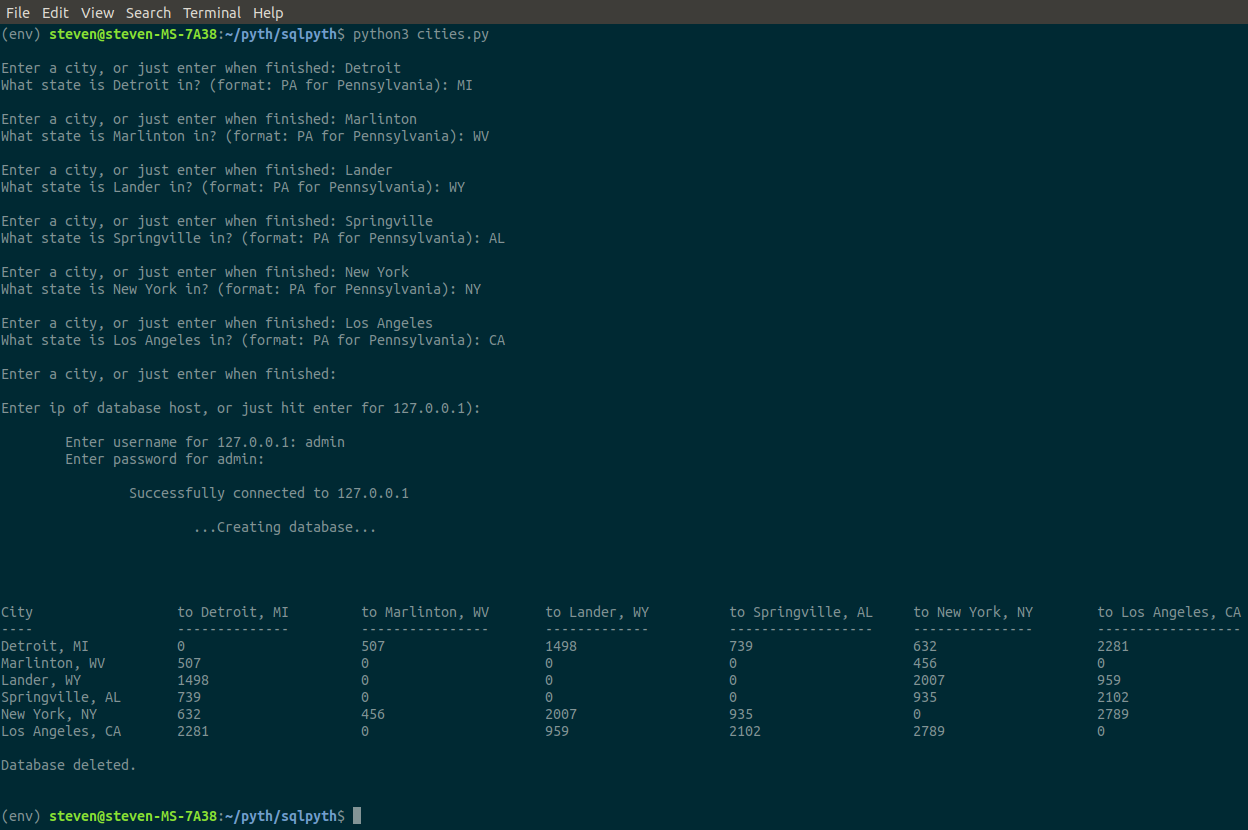
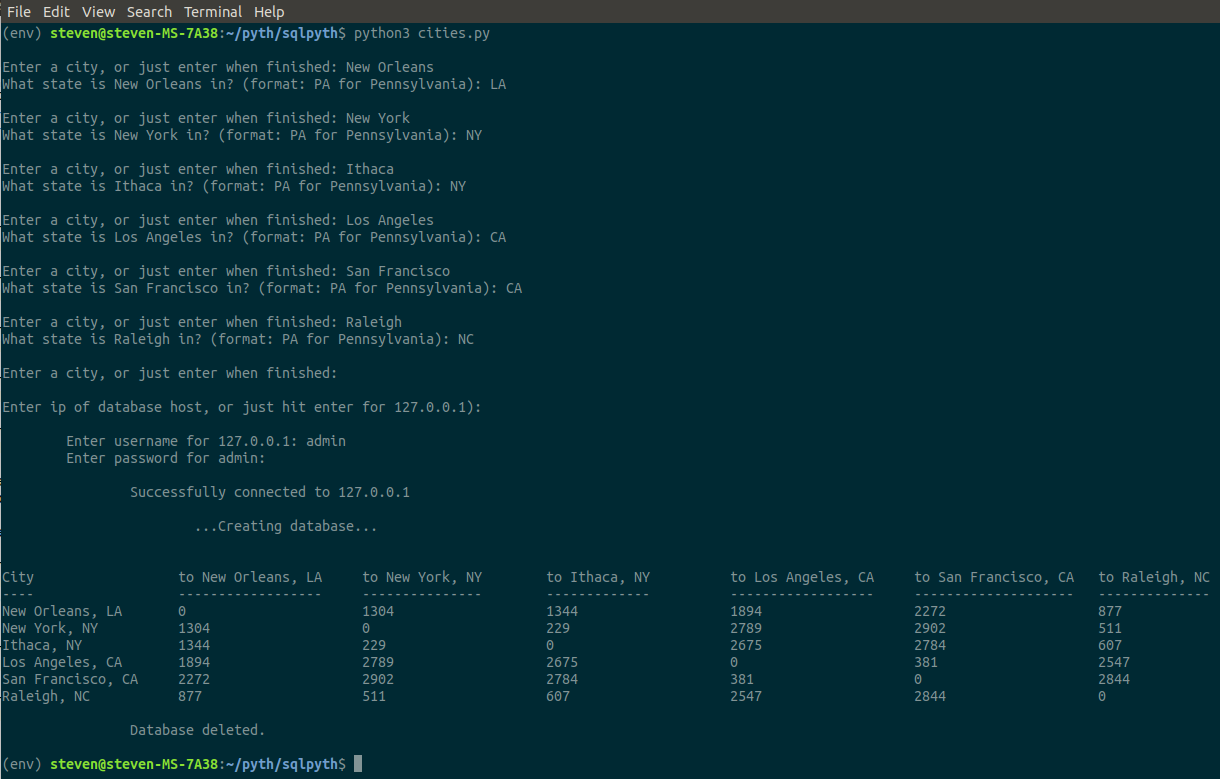
minor tweaks

diff --git a/cities.py b/cities.py
@@ -1,6 +1,7 @@
 import re
 import getpass
 import sys
+import time
 
 import mysql.connector
 import requests
@@ -85,7 +86,9 @@ class CitySearch:
         ua = {
             'User-Agent': 'Mozilla/5.0 (X11; Ubuntu; Linux x86_64; rv:65.0) '
             'Gecko/20100101 Firefox/65.0'}
+
         response = requests.get(link, headers=ua)
+        time.sleep(.5)
 
         try:
             search_string = (
@@ -129,7 +132,7 @@ class CitySearch:
                         self.print_states()
                 new_city += ", {}".format(new_state.upper())
                 if new_city in self.cities_list:
-                    print("You already entered {}\n".format(new_city))
+                    print("You already entered {}".format(new_city))
                     continue
                 self.cities_list.append(new_city)
             else:
@@ -199,7 +202,7 @@ class CitySearch:
         self.my_cursor.execute("SELECT * FROM citiesDistance")
         result = self.my_cursor.fetchall()
 
-        table_column_label_string = "\n\nCity ".ljust(24)
+        table_column_label_string = "City ".ljust(22)
         table_column_label_line = "----".ljust(22)
 
         for city in self.cities_list:
@@ -231,7 +234,7 @@ class CitySearch:
                 self.database_deleted = False
                 break
         if self.database_deleted:
-            print("\nDatabase deleted.\n\n")
+            print("\n\t\tDatabase deleted.\n")
         else:
             print("\nWarning: Database not deleted.\n\n")
         self.my_db.close()
